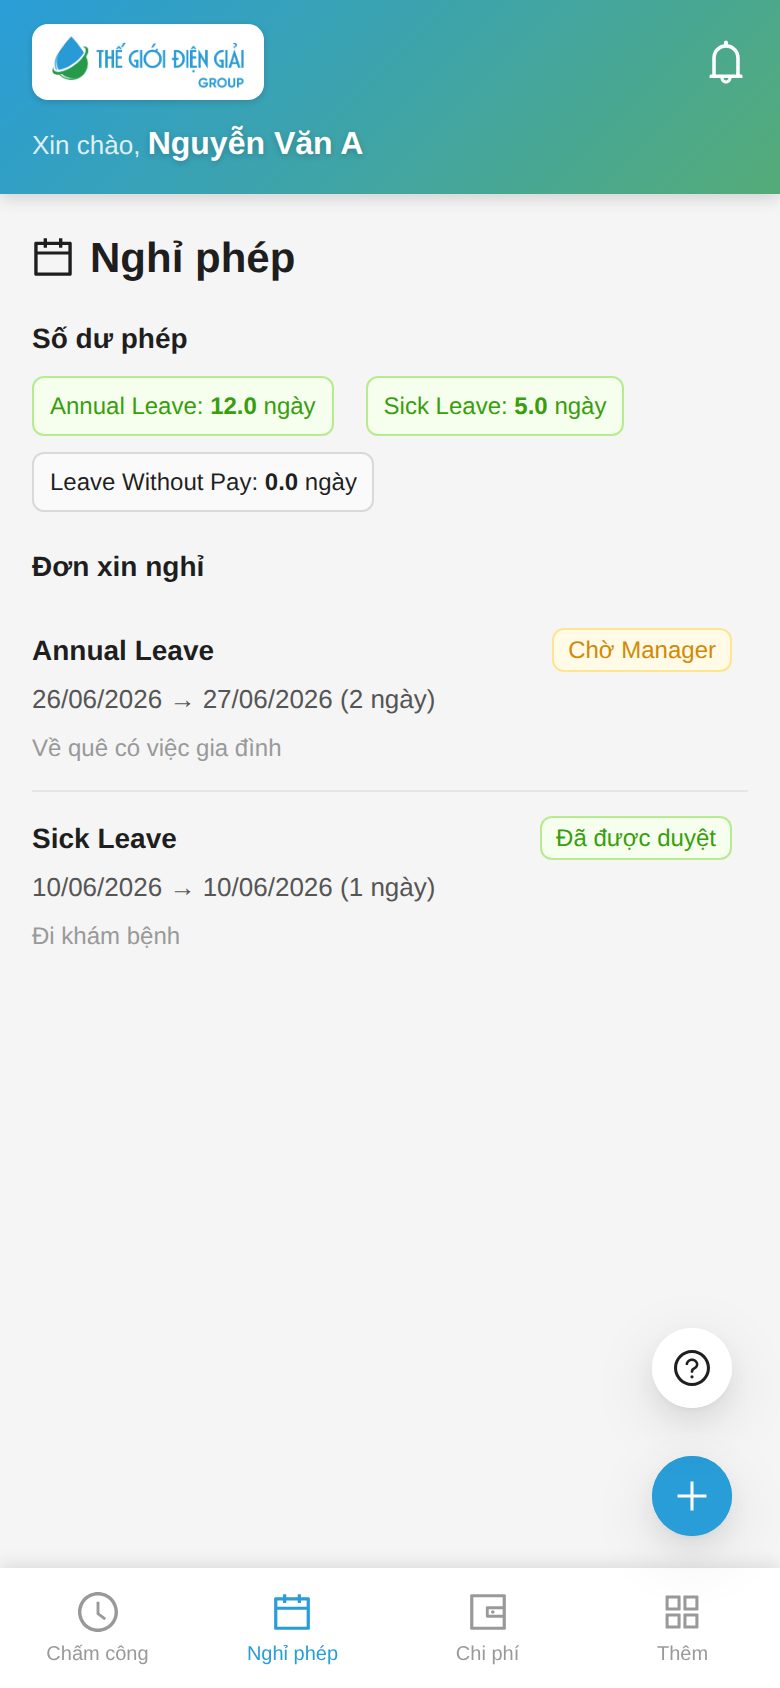
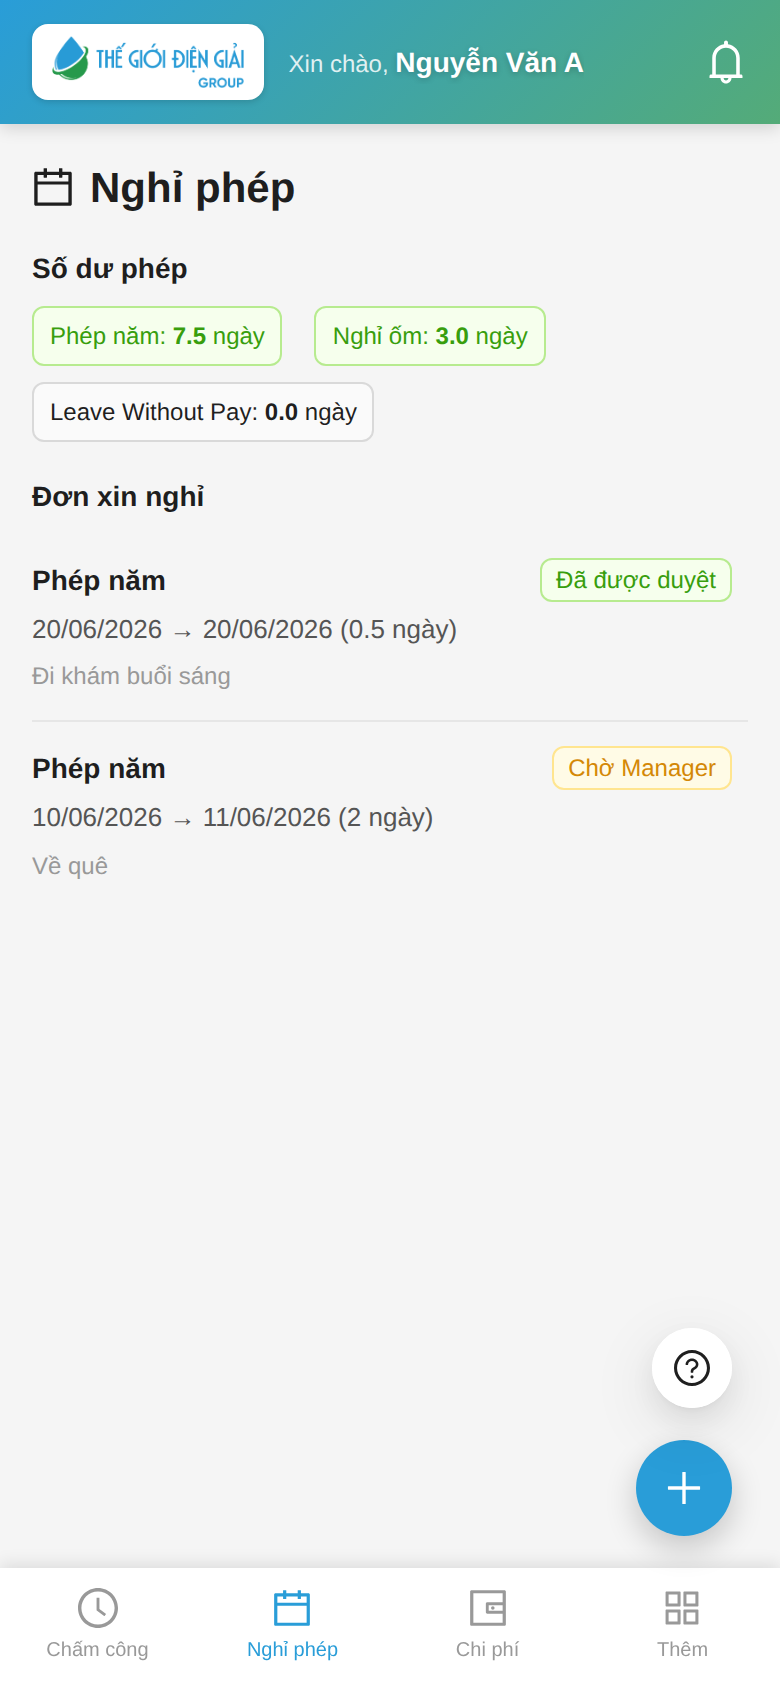
docs(hr): nghỉ phép nửa ngày (end-user + tech) + doc kỹ thuật rebind thiết bị
- Guide nhân viên §3: thêm mục Nghỉ nửa ngày (sáng/chiều) + ảnh form mới
- HR-Attendance-API §3.7: param half_day/half_day_date/half_day_session +
  custom field custom_half_day_session; HRMS tính 0.5 ngày
- Thêm tech doc "Device Key & Rebind" (khóa thiết bị + rebind cửa sổ migration)
- Chụp lại màn nghỉ phép từ build mới (10/11 cập nhật + 12-halfday mới);
  harness _tools/shoot_leave.js (mock API, render PWA build thật)

diff --git a/_tools/shoot_leave.js b/_tools/shoot_leave.js
@@ -1,0 +1,116 @@
+/* shoot_leave.js — chụp màn NGHỈ PHÉP (gồm form nửa ngày) từ PWA build thật + mock API.
+   Chạy: node help/cobe_erp_documents/_tools/shoot_leave.js
+   UI đổi → npm run build (PWA) rồi chạy lại. */
+const { chromium } = require('/home/Volumes/ws/thegioidiengiai.com/dev/erps/v3/cobe.cc/apps/wiki/node_modules/playwright');
+const fs = require('fs'), path = require('path');
+const ROOT = '/home/Volumes/ws/thegioidiengiai.com/dev/erps/v3/cobe.cc';
+const PUBLIC = ROOT + '/apps/hr_for_cobegroup/hr_for_cobegroup/public';
+const OUT = ROOT + '/help/cobe_erp_documents/users/images/guide/nhanvien';
+const indexHtml = fs.readFileSync(PUBLIC + '/attendance-pwa/index.html', 'utf8');
+const api = (m) => ({ status:200, contentType:'application/json', body: JSON.stringify({ message:m }) });
+
+const BOOT = { frappe_csrf_token:'x', site_name:'cobe.cc', user:'a@tgdg.com', user_fullname:'Nguyễn Văn A',
+  employee:'HR-EMP-001', employee_name:'Nguyễn Văn A', user_roles:['Employee'], inbox_access:false, is_technician:false, wiki_url:'' };
+const INFO = { employee_name:'Nguyễn Văn A', employee_id:'HR-EMP-001', next_log_type:'IN', checkins:[],
+  phone_registered:true, wfh_today:{active:false}, feature_flags:{ enable_selfie_capture:true } };
+
+const LEAVE_TYPES = { leave_types:[
+  { name:'Phép năm', balance:7.5, max_leaves_allowed:12, leaves_taken:4.5, leaves_pending_approval:0, is_lwp:0 },
+  { name:'Nghỉ ốm', balance:3, max_leaves_allowed:5, leaves_taken:2, leaves_pending_approval:0, is_lwp:0 },
+  { name:'Leave Without Pay', balance:0, max_leaves_allowed:0, leaves_taken:0, leaves_pending_approval:0, is_lwp:1 },
+], employee:'HR-EMP-001' };
+
+const APPS = { applications:[
+  { name:'HR-LAP-2026-00012', leave_type:'Phép năm', from_date:'2026-06-20', to_date:'2026-06-20',
+    total_leave_days:0.5, description:'Đi khám buổi sáng', status:'Open', workflow_state:'Submitted',
+    docstatus:1, leave_approver:'manager@tgdg.com', posting_date:'2026-06-18', half_day:1,
+    half_day_date:'2026-06-20', custom_half_day_session:'Sáng' },
+  { name:'HR-LAP-2026-00009', leave_type:'Phép năm', from_date:'2026-06-10', to_date:'2026-06-11',
+    total_leave_days:2, description:'Về quê', status:'Open', workflow_state:'Pending Manager',
+    docstatus:0, leave_approver:'manager@tgdg.com', posting_date:'2026-06-08', half_day:0,
+    half_day_date:null, custom_half_day_session:null },
+] };
+
+const MOCKS = {
+  'attendance.get_attendance_info':INFO,
+  'leave.get_leave_types_for_employee':LEAVE_TYPES,
+  'leave.get_my_leave_applications':APPS,
+  'approval.get_pending_count':{count:0}, 'push.get_push_config':{enabled:false},
+};
+
+const CLOCK = '2026-06-24T08:00:00';
+
+async function setup(browser) {
+  const ctx = await browser.newContext({ viewport:{width:390,height:844}, deviceScaleFactor:2, locale:'vi-VN' });
+  await ctx.addInitScript((b)=>{Object.assign(window,b);try{localStorage.setItem('mw_guide_seen_v1','1');}catch(e){}}, BOOT);
+  const page = await ctx.newPage();
+  await page.clock.install({ time: new Date(CLOCK) });
+  await page.route('**/*', async (route) => {
+    const u = new URL(route.request().url()); const p = u.pathname;
+    if (u.hostname==='localhost') {
+      if (p.startsWith('/api/method/')) { for (const k in MOCKS) if (p.includes(k)) return route.fulfill(api(MOCKS[k])); return route.fulfill(api(null)); }
+      if (p.startsWith('/assets/hr_for_cobegroup/')) { const f=path.join(PUBLIC,p.replace('/assets/hr_for_cobegroup/','')); return fs.existsSync(f)?route.fulfill({path:f}):route.fulfill({status:404,body:''}); }
+      if (p.startsWith('/my-workspace')) return route.fulfill({ contentType:'text/html', body:indexHtml });
+      return route.fulfill({ status:204, body:'' });
+    }
+    return route.continue();
+  });
+  await page.goto('http://localhost/my-workspace/leave', { waitUntil:'domcontentloaded' }).catch(()=>{});
+  await page.waitForTimeout(1500);
+  return { ctx, page };
+}
+
+async function openFormSingleDay(page) {
+  await page.locator('[title="Tạo đơn xin nghỉ"]').click().catch(()=>{});
+  await page.waitForSelector('.ant-modal', { timeout:5000 }).catch(()=>{});
+  await page.waitForTimeout(600);
+  // Chọn Loại phép
+  await page.locator('.ant-modal .ant-select-selector').first().click().catch(()=>{});
+  await page.waitForTimeout(400);
+  await page.locator('.ant-select-item-option', { hasText:'Phép năm' }).first().click().catch(()=>{});
+  await page.waitForTimeout(300);
+  // RangePicker: chọn ĐÚNG 1 ngày (click cùng 1 ô 2 lần → from == to)
+  await page.locator('.ant-modal .ant-picker').first().click().catch(()=>{});
+  await page.waitForSelector('.ant-picker-dropdown', { timeout:4000 }).catch(()=>{});
+  await page.waitForTimeout(300);
+  const cell = page.locator('.ant-picker-dropdown:visible .ant-picker-cell[title="2026-06-20"] .ant-picker-cell-inner').first();
+  await cell.click().catch(()=>{});
+  await page.waitForTimeout(200);
+  await cell.click().catch(()=>{});
+  await page.waitForTimeout(300);
+  // Mô tả
+  await page.locator('.ant-modal textarea').fill('Đi khám buổi sáng').catch(()=>{});
+  await page.waitForTimeout(300);
+}
+
+(async () => {
+  const browser = await chromium.launch({ executablePath:'/usr/bin/google-chrome', args:['--no-sandbox'] });
+
+  // 10 — danh sách + số dư phép
+  {
+    const { ctx, page } = await setup(browser);
+    await page.screenshot({ path: path.join(OUT, '10-leave-list.png') });
+    console.log('shot 10-leave-list'); await ctx.close();
+  }
+  // 11 — form tạo đơn (1 ngày, chưa tick nửa ngày)
+  {
+    const { ctx, page } = await setup(browser);
+    await openFormSingleDay(page);
+    await page.screenshot({ path: path.join(OUT, '11-leave-create.png') });
+    console.log('shot 11-leave-create'); await ctx.close();
+  }
+  // 12 — form NỬA NGÀY (tick + chọn Buổi sáng)
+  {
+    const { ctx, page } = await setup(browser);
+    await openFormSingleDay(page);
+    await page.locator('.ant-modal .ant-checkbox-input').first().check().catch(()=>{});
+    await page.waitForTimeout(400);
+    // Chọn Buổi sáng (radio button)
+    await page.locator('.ant-modal .ant-radio-button-wrapper', { hasText:'Buổi sáng' }).click().catch(()=>{});
+    await page.waitForTimeout(400);
+    await page.screenshot({ path: path.join(OUT, '12-leave-halfday.png') });
+    console.log('shot 12-leave-halfday'); await ctx.close();
+  }
+
+  await browser.close();
+})().catch(e=>{console.error('ERR',e.message);process.exit(1)});

diff --git a/tech/HR-Attendance-Device-Rebind.md b/tech/HR-Attendance-Device-Rebind.md
@@ -1,0 +1,163 @@
+---
+title: HR Attendance — Device Key & Rebind
+layout: default
+parent: Tài liệu kỹ thuật
+nav_order: 5
+---
+
+# Device Key & Rebind — chống giả mạo thiết bị chấm công
+{: .no_toc }
+
+> Cơ chế khóa thiết bị (device-bound key) cho chấm công PWA và quy trình **rebind**
+> (gắn lại khóa) dùng trong giai đoạn chuyển đổi fleet. Đọc cùng
+> [HR Attendance — API](HR-Attendance-API.html) và [Architecture](HR-Attendance-Architecture.html).
+
+<details open markdown="block">
+<summary>Mục lục</summary>
+{: .text-delta }
+1. TOC
+{:toc}
+</details>
+
+---
+
+## 1. Khóa thiết bị (device-bound key)
+
+Mỗi máy đã đăng ký giữ một **cặp khóa ECDSA P-256** sinh ngay trên trình duyệt:
+
+- **Private key**: tạo dạng **non-extractable** (Web Crypto), lưu trong **IndexedDB**.
+  Không export ra được → không copy/clone sang máy khác.
+- **Public key**: export SPKI → gửi lên server khi đăng ký.
+- **`device_id`** = `SHA-256(SPKI public key)` (hex). Đây là **định danh máy ổn định**,
+  thay cho việc tin vào `device_fingerprint` (vốn đổi khi nâng cấp trình duyệt).
+
+Mỗi lần chấm công, máy phải **ký một challenge** (nonce dùng-một-lần) bằng private key;
+server verify chữ ký bằng public key đã lưu trên `HR Checkin Phone Registration`. Sai
+chữ ký → `SIGNATURE_INVALID`, không cho chấm công. Cơ chế này chống **giả mạo thiết bị**
+và **replay**.
+
+```
+Đăng ký:  máy sinh keypair → gửi public_key → server tính device_id, HR duyệt reg Active
+Chấm công: máy xin challenge → ký bằng private key → server verify → cho checkin
+```
+
+> Verify chữ ký bật **ngay khi reg đã có `public_key`** (xem `_require_registered_phone`
+> tại `api/attendance.py`), độc lập với cờ `enforce_device_signature` (cờ đó dành cho
+> chế độ ép cứng kể cả thiết bị legacy chưa có khóa).
+
+## 2. Vì sao cần rebind
+
+Phiên bản client đời đầu có **bug race sinh khóa**: nhiều lời gọi tạo identity chạy
+song song khi mở app → máy có thể tạo **nhiều keypair khác nhau** và đẩy lên nhiều bản
+đăng ký Draft. HR duyệt **một** trong số đó → reg Active có thể mang **public_key khác**
+với private key hiện đang nằm trong IndexedDB của máy.
+
+Hệ quả: máy ký challenge bằng khóa hiện có → server verify bằng khóa đã lưu (khác) →
+**`SIGNATURE_INVALID`** → nhân viên không chấm công được, dù **vẫn đúng máy vật lý đó**.
+
+Cách xử lý ngây thơ là bắt nhân viên **đăng ký lại + chờ HR duyệt lại**. Rebind tự động
+hoá việc này một cách an toàn: máy **chứng minh đang giữ private key thật** rồi server
+gắn lại khóa đó vào reg Active — khỏi phiền HR.
+
+## 3. Cơ chế rebind (challenge–response)
+
+Endpoint: `POST phone_device.rebind_device_key(device_fingerprint, device_id, public_key, signature)`.
+
+Server chỉ rebind khi **qua đủ 3 cổng**:
+
+| # | Cổng | Bảo đảm |
+|---|---|---|
+| 1 | `SHA-256(public_key) == device_id` | Bộ ba (public_key, device_id) khớp nhau — chống ghép bừa |
+| 2 | Chữ ký challenge hợp lệ với public_key | Máy **đang giữ private key** tương ứng (non-extractable → không clone được) |
+| 3 | Reg Active đã duyệt **cùng `device_fingerprint`** | Đúng **máy vật lý** HR đã duyệt trước đó |
+
+Đủ 3 cổng → server cập nhật `device_id` + `public_key` của reg Active sang khóa thật của
+máy, tăng `rebind_count`, ghi `last_rebind_on`. Không đủ → trả `noop`/`disabled`/`exists`,
+không thay đổi gì (máy buộc đi đường đăng ký lại + HR duyệt như thường).
+
+Challenge dùng **namespace theo `purpose`** (`checkin` ↔ `rebind`) để hai luồng — rebind
+chạy nền lúc mở app và checkin do người dùng bấm — **không đè nonce của nhau**
+(`device_auth._challenge_key`). Nonce một-lần, hết hạn ~2 phút.
+
+```
+Client (mở app, phát hiện lệch khóa):
+  getDeviceIdentity() → {device_id, public_key}
+  getCheckinChallenge(device_id, purpose="rebind")
+  signChallenge() → signature
+  POST rebind_device_key(fingerprint, device_id, public_key, signature)
+Server: cổng 1 → 2 → 3 → cập nhật reg Active → {status: "rebound", rebind_count}
+```
+
+## 4. Cờ vòng đời `allow_key_rebind` (HR Policy, per-Company)
+
+Rebind chỉ chạy khi `HR Policy.allow_key_rebind = 1`. Đây là **tiện ích cho giai đoạn
+chuyển đổi (migration convenience)**, không phải đường vào thường trực:
+
+- **BẬT** trong lúc fleet đang ổn định khóa (sau khi triển khai cơ chế device-key) → các
+  máy mang reg lệch khóa tự lành, không dồn việc duyệt lại lên HR.
+- **TẮT** sau khi số ca rebind về gần 0 → **siết về quy trình chuẩn**: từ đó máy nào lệch
+  khóa sẽ **đăng ký lại + HR duyệt** như bình thường.
+
+Tắt/bật **không cần redeploy** (chỉ sửa field trên HR Policy), nên cũng là **công tắc dừng
+khẩn** nếu cần.
+
+## 5. Auto-heal khi checkin
+
+Có khoảng trống thời gian: rebind chạy nền lúc mở app, nhưng người dùng có thể bấm
+**Chấm công ngay** trước khi rebind xong. Client xử lý bằng `postSignedCheckinWithHeal`
+(`src/api/attendance.ts`):
+
+```
+ký + POST checkin
+  └─ nếu trả SIGNATURE_INVALID → rebindDeviceKey() → KÝ LẠI → thử lại đúng MỘT lần
+```
+
+Idempotent, im lặng; rebind thất bại cũng không chặn flow (cùng lắm nhân viên đăng ký lại).
+Backend báo trạng thái lệch khóa qua `get_attendance_info.device_key_mismatch` để client
+chủ động rebind khi load (`useEmployee.ts`).
+
+## 6. Giám sát & sức khỏe khóa
+
+Trên mỗi `HR Checkin Phone Registration`:
+
+| Field | Ý nghĩa |
+|---|---|
+| `rebind_count` | Số lần khóa bị gắn-lại. Bình thường **0–1** (lành một lần là xong) |
+| `last_rebind_on` | Thời điểm rebind gần nhất |
+
+Rebind ghi `logs/attendance_rebind.log` (logger `attendance_rebind`). **`rebind_count ≥ 4`**
+ghi mức `warning` — dấu hiệu **IndexedDB của máy không giữ được khóa** (vd iOS evict storage
+/ chế độ ẩn danh): mỗi lần mở app sinh khóa mới → rebind lặp lại. Máy như vậy cần xử lý riêng
+(persistence của thiết bị hỏng, không thể dựa vào device key) — xem
+[Known Issues](HR-Attendance-Known-Issues.html).
+
+> ⚠ Round-trip CryptoKey non-extractable trên iOS Safari/PWA **chưa kiểm chứng đầy đủ** —
+> theo dõi `rebind_count` để phát hiện sớm máy iOS không giữ khóa.
+
+## 7. Schema & triển khai
+
+Các field bổ sung (đều **read-only**, additive — migrate chỉ thêm cột, không sửa data cũ):
+
+- `HR Checkin Phone Registration`: `device_id`, `public_key`, `rebind_count` (default 0),
+  `last_rebind_on`.
+- `HR Policy`: `allow_key_rebind` (Check, default 1), `enforce_device_signature` (Check).
+
+Triển khai: `bench migrate` (đồng bộ doctype + fixtures, tạo cột) → `bench build` (PWA) →
+`bench restart`. Không cần patch backfill. Sau migrate nhớ rà `allow_key_rebind` theo đúng
+giai đoạn fleet (mục 4).
+
+## 8. Tham chiếu endpoint
+
+| Endpoint | Vai trò |
+|---|---|
+| `GET attendance.get_attendance_info` | Trả `device_needs_key`, `device_key_mismatch` để client quyết định nâng khóa / rebind |
+| `GET attendance.get_checkin_challenge(device_id, purpose)` | Phát nonce; `purpose ∈ {checkin, rebind}` tách namespace |
+| `POST phone_device.register_phone` | Đăng ký mới + dedup Draft pending theo `(employee, device_fingerprint)` |
+| `POST phone_device.ensure_device_key` | Nâng khóa tại chỗ cho reg Active legacy **chưa có** public_key |
+| `POST phone_device.rebind_device_key` | Gắn lại khóa cho reg Active **đã có** public_key nhưng lệch (mục 3) |
+| `POST attendance.checkin` / `checkin_wfh` | Chấm công; verify chữ ký + auto-heal |
+
+## Liên quan
+- [HR Attendance — API](HR-Attendance-API.html) §2.2, §3.4, §3.7
+- [HR Attendance — Architecture](HR-Attendance-Architecture.html)
+- [HR Attendance — Known Issues](HR-Attendance-Known-Issues.html)

diff --git a/tech/HR-Attendance-API.md b/tech/HR-Attendance-API.md
@@ -311,6 +311,24 @@ Endpoints (`api.attendance_request`):
   Draft + Submitted, kèm `workflow_state`).
 - `POST leave.create_leave_application` — tạo Leave Application Draft
   (`workflow_state="Pending Manager"`). Workflow 2 bước Manager→HR chạy server-side.
+  Tham số: `leave_type, from_date, to_date, description, half_day, half_day_date,
+  half_day_session`.
+
+**Nghỉ nửa ngày (half-day).** Khi `half_day=1`:
+- Backend bắt buộc `from_date == to_date` (luồng PWA chỉ cho nửa ngày khi nghỉ **đúng
+  1 ngày**); tự set `half_day_date = from_date` nếu client không gửi.
+- Số ngày trừ do HRMS `get_number_of_leave_days` tính: nửa ngày → **`total_leave_days
+  = 0.5`** (trừ 0.5 số dư khi đơn được Submit). Sáng hay chiều **không đổi** số trừ.
+- `half_day_session` (`"Sáng"` | `"Chiều"`) chỉ là **nhãn thông tin buổi nghỉ**, lưu ở
+  custom field `Leave Application.custom_half_day_session` (Select, `depends_on
+  half_day`, fixture `custom_field.json`, sở hữu bởi hr_for_cobegroup). KHÔNG ảnh hưởng
+  số phép — buổi còn lại NV vẫn đi làm + chấm công. Validate: chỉ nhận `Sáng`/`Chiều`.
+- `get_my_leave_applications` trả thêm `half_day`, `half_day_date`,
+  `custom_half_day_session` để client hiển thị (vd "· nửa ngày (Sáng)").
+
+> Frappe core chỉ có `half_day` + `half_day_date` (không phân biệt buổi). Cobe thêm
+> `custom_half_day_session` thuần để hiển thị buổi — migrate prod tự tạo field qua sync
+> fixtures, không cần patch riêng.
 
 > **Cấp quỹ phép ≠ Đơn xin nghỉ.** Phép năm cấp tự động (+N/kỳ) = **Leave Allocation**
 > qua HRMS Earned Leave — hệ thống tự submit, **cộng số dư ngay, KHÔNG qua duyệt**, không

diff --git a/users/Guide-NhanVien-NghiPhep.md b/users/Guide-NhanVien-NghiPhep.md
@@ -41,6 +41,29 @@ Bấm nút **+** (góc dưới phải) → điền:
 
 ---
 
+## 3. Nghỉ nửa ngày (sáng / chiều)
+
+Khi chỉ cần nghỉ **một buổi** (vd sáng đi khám, chiều đi làm):
+
+<img src="images/guide/nhanvien/12-leave-halfday.png" width="240" alt="Form nửa ngày — tick Nghỉ nửa ngày + chọn Buổi sáng / Buổi chiều">
+
+1. Ở **Khoảng ngày**, chọn **đúng 1 ngày** (ngày bắt đầu = ngày kết thúc).
+2. Tích ô **Nghỉ nửa ngày**.
+3. Chọn **Buổi sáng** hoặc **Buổi chiều** — đúng buổi bạn nghỉ.
+4. Bấm **Gửi đơn** như thường.
+
+> 💡 **Hệ thống trừ 0.5 ngày phép** cho đơn nửa ngày (không phải 1 ngày). Buổi
+> bạn chọn (sáng/chiều) để Quản lý & HR biết bạn nghỉ buổi nào — **buổi còn lại
+> bạn vẫn đi làm và chấm công bình thường**.
+
+**Lưu ý:**
+- Ô **Nghỉ nửa ngày** chỉ bật được khi bạn chọn **đúng 1 ngày**. Chọn khoảng
+  nhiều ngày thì ô này mờ đi (nửa ngày không áp dụng cho nhiều ngày).
+- Buổi sáng hay chiều **trừ phép như nhau** (đều 0.5 ngày) — chọn cho đúng buổi
+  để Quản lý nắm lịch, không ảnh hưởng số phép.
+
+---
+
 ## ⚠ Lưu ý
 
 | Tình huống | Cách xử |
